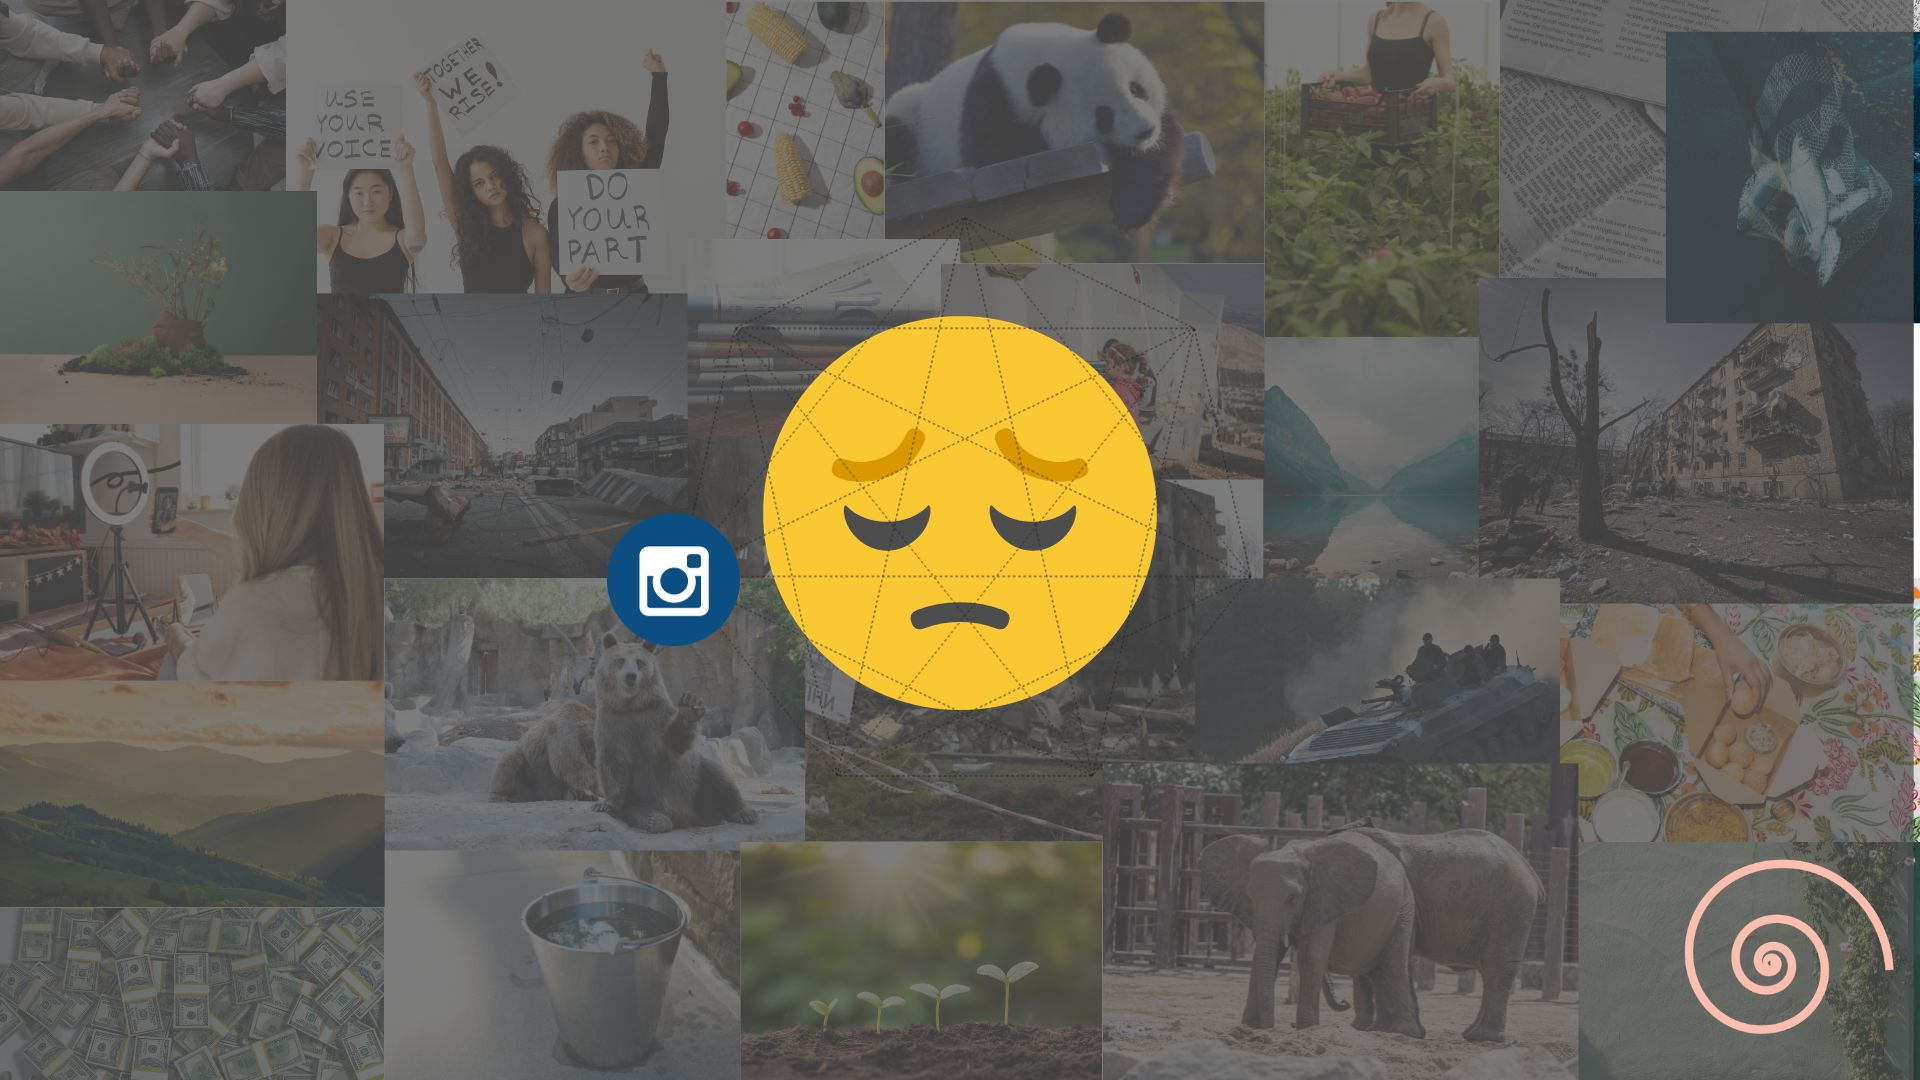
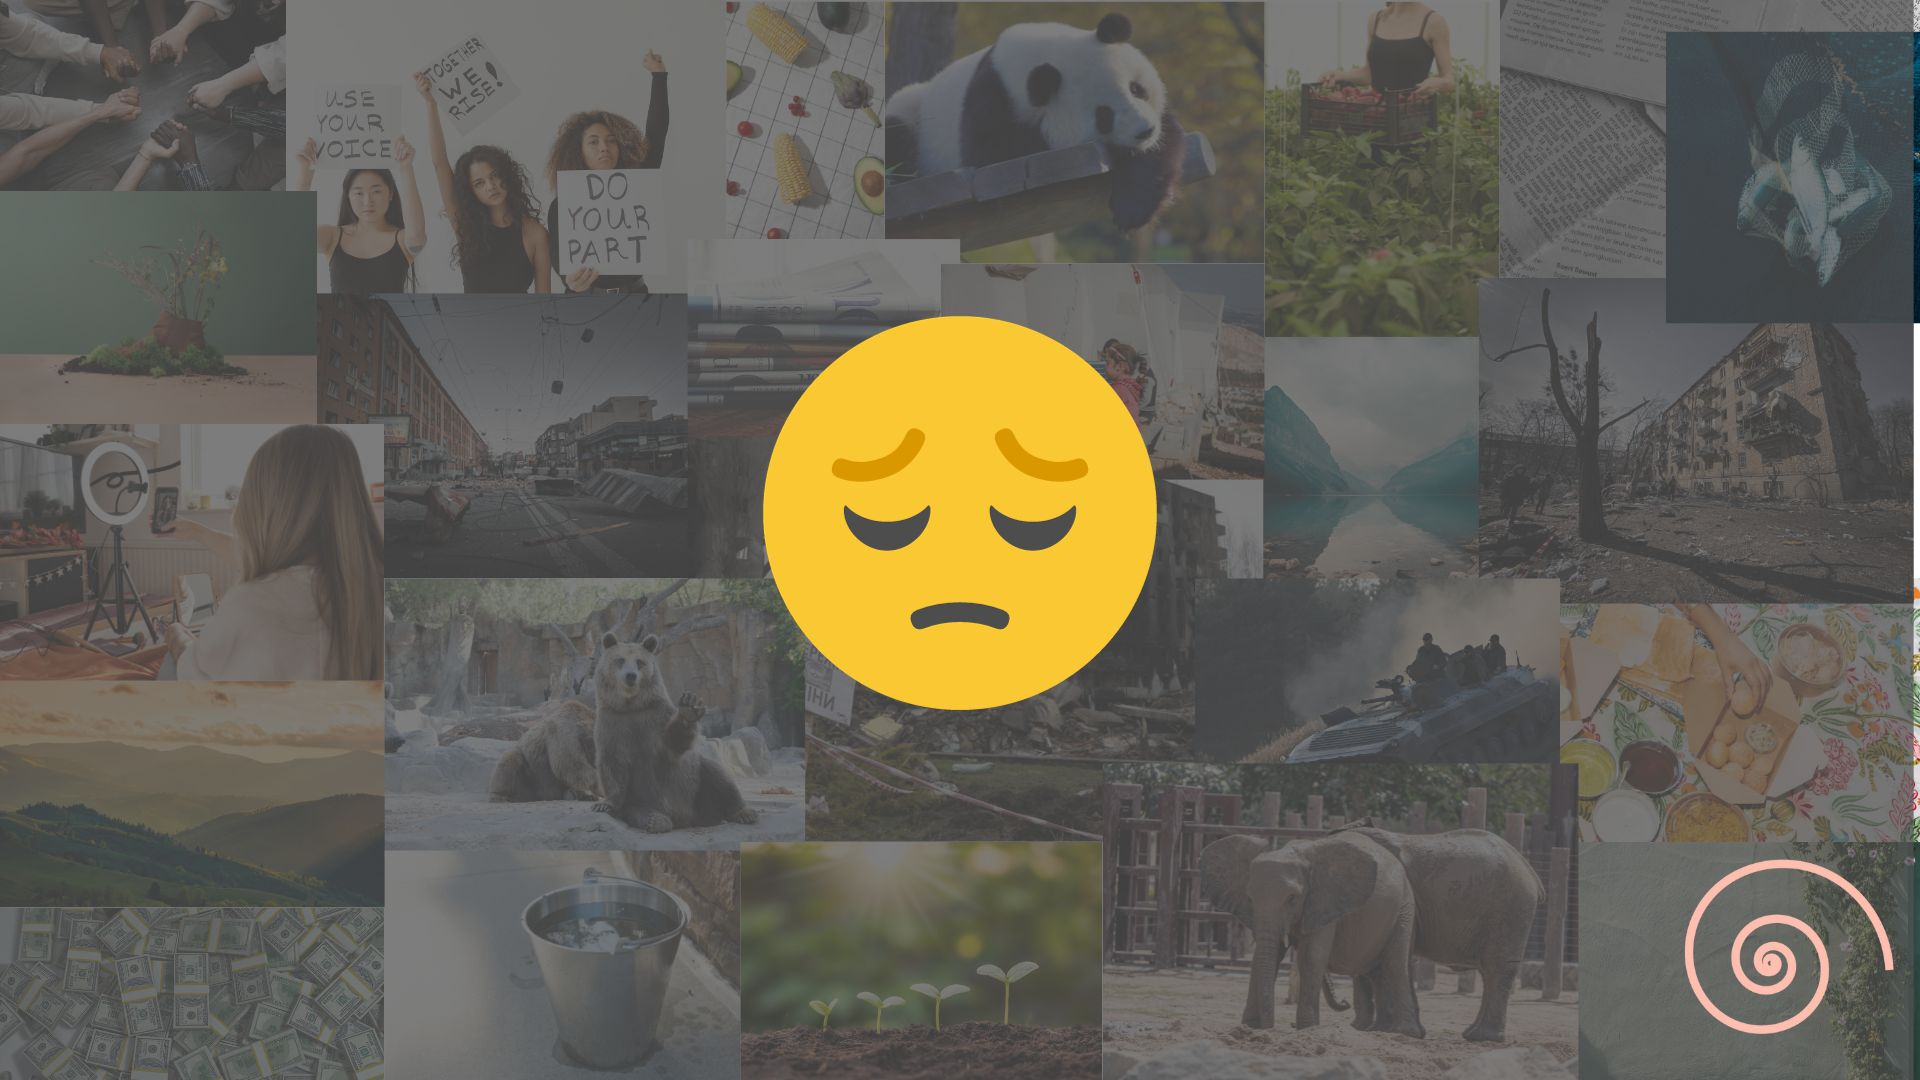
[Fix] image in social media post

Changed region(s): [[0.3125, 0.4583, 0.4062, 0.6111]]

diff --git a/content/post/happiness-not-on-social-media.md b/content/post/happiness-not-on-social-media.md
@@ -5,7 +5,7 @@ tags = ["Online", "Happiness"]
 categories = ["Happiness", "Social media", "Enshittification", "Content"]
 draft = false
 featured_image = "/img/featured_happiness-not-on-social-media.jpg"
-f_alt = "A collage of photographs of various scenes, from landscapes, through animals, people, war scenes, close ups etc, with a sad emoji in the middle surrounded by a network of a few social media logos.."
+f_alt = "A collage of photographs of various scenes, from landscapes, through animals, people, war scenes, close ups etc, with a sad emoji in the middle."
 +++
 
 We live in the age of social media. So much of our interactions, information sharing, news acquiring and entertainment happens there. Yet many of us have a somewhat (or very) mixed relationship with them. And rightly so. When you think about it, it is the strangest thing. We go there to see things we (mostly) didn't choose ourselves, served to us in small bite-sized bits: _-- an interesting fact! -- a sad story :( -- an update from a "friend" you haven't talked to in 12 years -- a funny video! -- a scary thing you should look out for!!! --_ Before you get the time to digest one, you move onto the next. Over and over again. Scroll, scroll, scroll. There are so many good things social media have given us, and I love them for that. But today, I am once again choosing to take a break from them, because of all the bad things they do to my brain.
